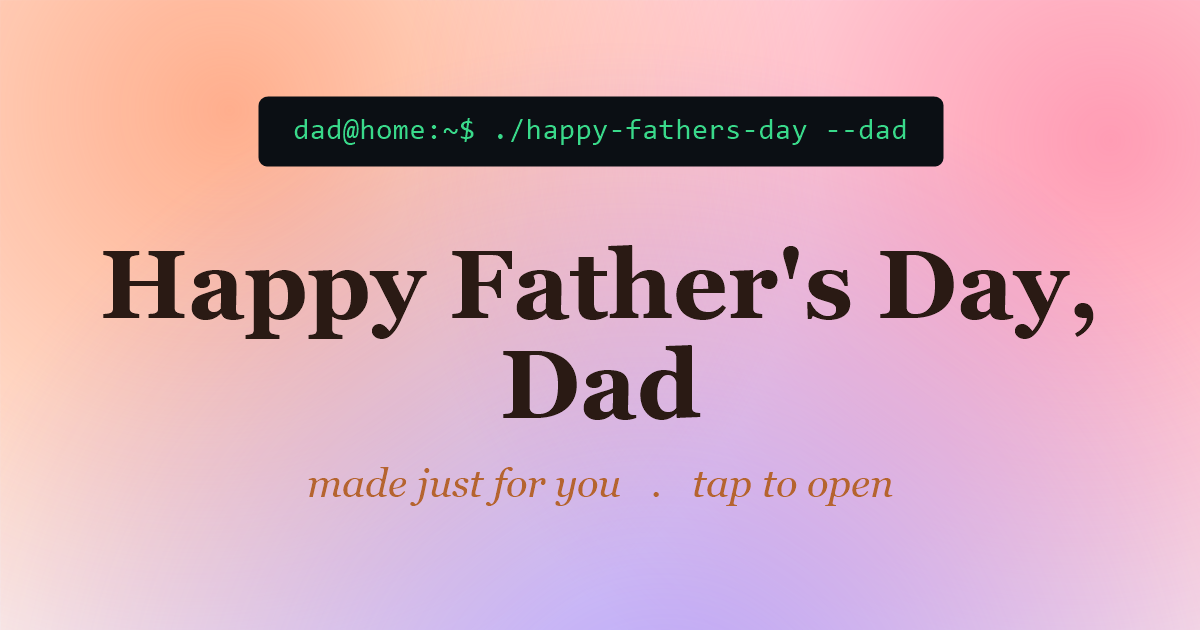
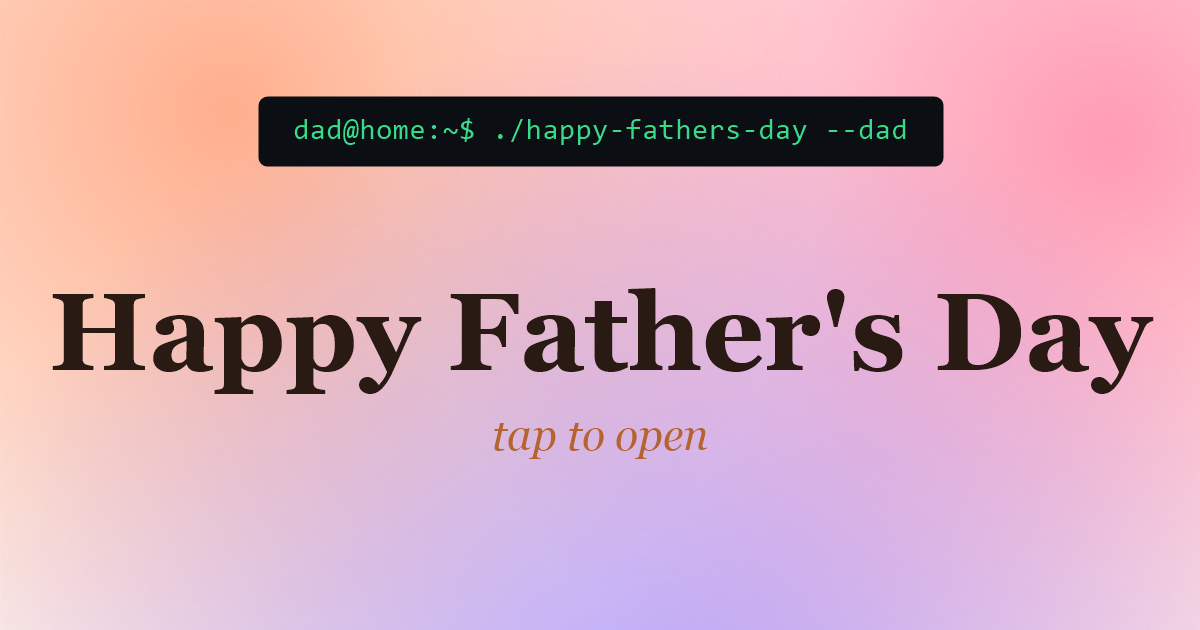
Simplify preview text to 'Happy Father's Day / tap to open'

Changed region(s): [[0.0308, 0.3921, 0.9558, 0.7238], [0.2467, 0.754, 0.5242, 0.8143], [0.555, 0.754, 0.74, 0.8143]]

diff --git a/index.html b/index.html
@@ -8,14 +8,14 @@
 <!-- Rich link preview: makes the URL unfurl into og.png when shared -->
 <meta property="og:type" content="website" />
 <meta property="og:url" content="https://akamai17.github.io/fathers-day/" />
-<meta property="og:title" content="Happy Father's Day, Dad" />
-<meta property="og:description" content="A little something I built just for you. Tap to open." />
+<meta property="og:title" content="Happy Father's Day" />
+<meta property="og:description" content="Tap to open." />
 <meta property="og:image" content="https://akamai17.github.io/fathers-day/og.png" />
 <meta property="og:image:width" content="1200" />
 <meta property="og:image:height" content="630" />
 <meta name="twitter:card" content="summary_large_image" />
-<meta name="twitter:title" content="Happy Father's Day, Dad" />
-<meta name="twitter:description" content="A little something I built just for you. Tap to open." />
+<meta name="twitter:title" content="Happy Father's Day" />
+<meta name="twitter:description" content="Tap to open." />
 <meta name="twitter:image" content="https://akamai17.github.io/fathers-day/og.png" />
 <link rel="preconnect" href="https://fonts.googleapis.com">
 <link rel="preconnect" href="https://fonts.gstatic.com" crossorigin>